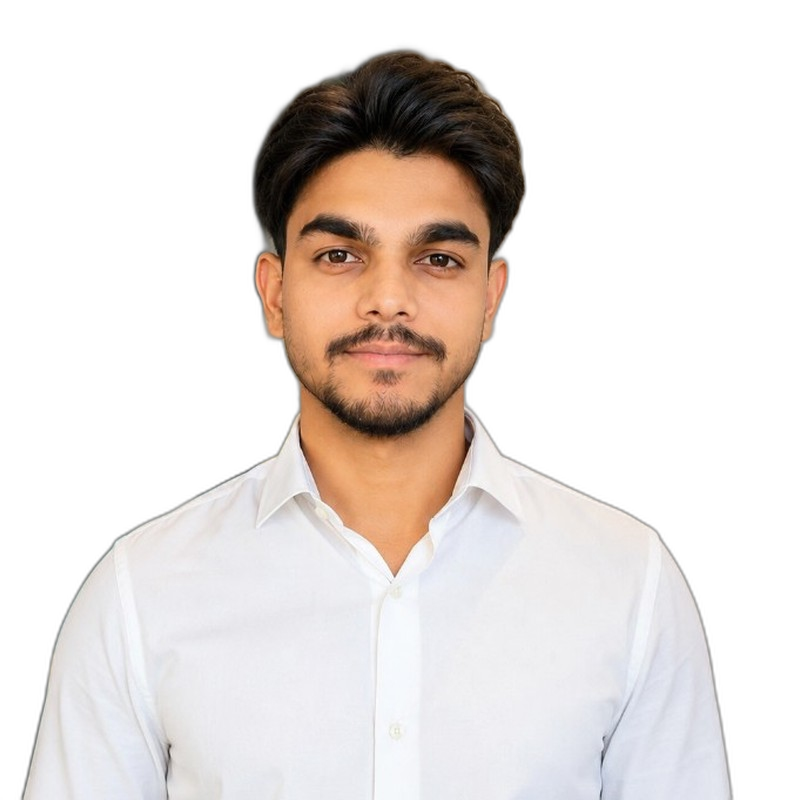
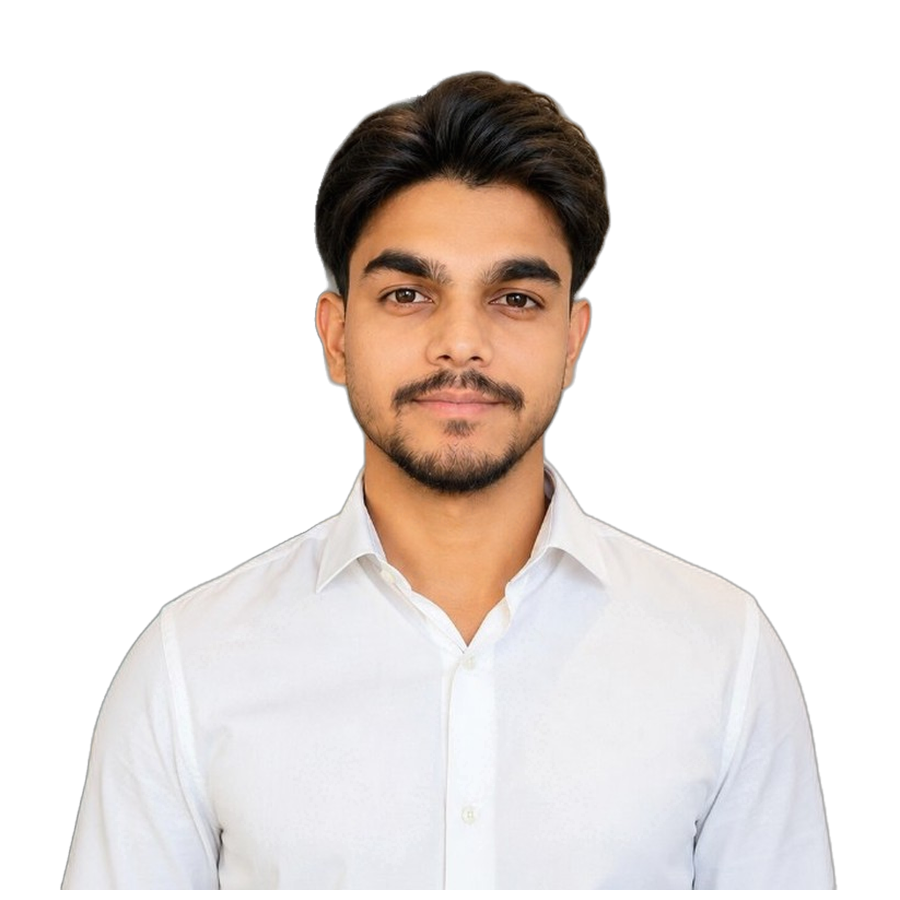
Refine profile cutout edges and Canva-style circle framing.

diff --git a/css/styles.css b/css/styles.css
@@ -440,18 +440,18 @@ button {
 
 /* Canva-style portrait: yellow disc + white ring behind cutout */
 .portrait {
-  --portrait-size: min(300px, 68vw);
+  --portrait-size: min(320px, 72vw);
   position: relative;
-  width: var(--portrait-size);
-  height: calc(var(--portrait-size) + 28px);
-  margin: 0 auto 0.35rem;
+  width: calc(var(--portrait-size) + 24px);
+  height: calc(var(--portrait-size) + 56px);
+  margin: 0.4rem auto 0.5rem;
 }
 
 .portrait-disc,
 .portrait-ring {
   position: absolute;
   left: 50%;
-  bottom: 0;
+  bottom: 8px;
   translate: -50% 0;
   width: var(--portrait-size);
   height: var(--portrait-size);
@@ -462,15 +462,15 @@ button {
 .portrait-disc {
   z-index: 1;
   background: var(--accent);
-  box-shadow: var(--shadow);
+  box-shadow: 0 18px 40px rgba(0, 0, 0, 0.35);
 }
 
 .portrait-ring {
   z-index: 2;
-  width: calc(var(--portrait-size) + 12px);
-  height: calc(var(--portrait-size) + 12px);
-  bottom: -6px;
-  border: 6px solid #fff;
+  width: calc(var(--portrait-size) + 14px);
+  height: calc(var(--portrait-size) + 14px);
+  bottom: 1px;
+  border: 7px solid #fff;
   background: transparent;
   box-sizing: border-box;
 }
@@ -478,16 +478,16 @@ button {
 .portrait-photo {
   position: absolute;
   left: 50%;
-  bottom: -2px;
+  bottom: 0;
   z-index: 3;
-  width: calc(var(--portrait-size) * 1.08);
+  width: calc(var(--portrait-size) * 1.12);
   height: auto;
   max-width: none;
   translate: -50% 0;
   display: block;
   object-fit: contain;
   object-position: center bottom;
-  filter: drop-shadow(0 10px 18px rgba(0, 0, 0, 0.28));
+  filter: drop-shadow(0 12px 20px rgba(0, 0, 0, 0.25));
   pointer-events: none;
   user-select: none;
 }
